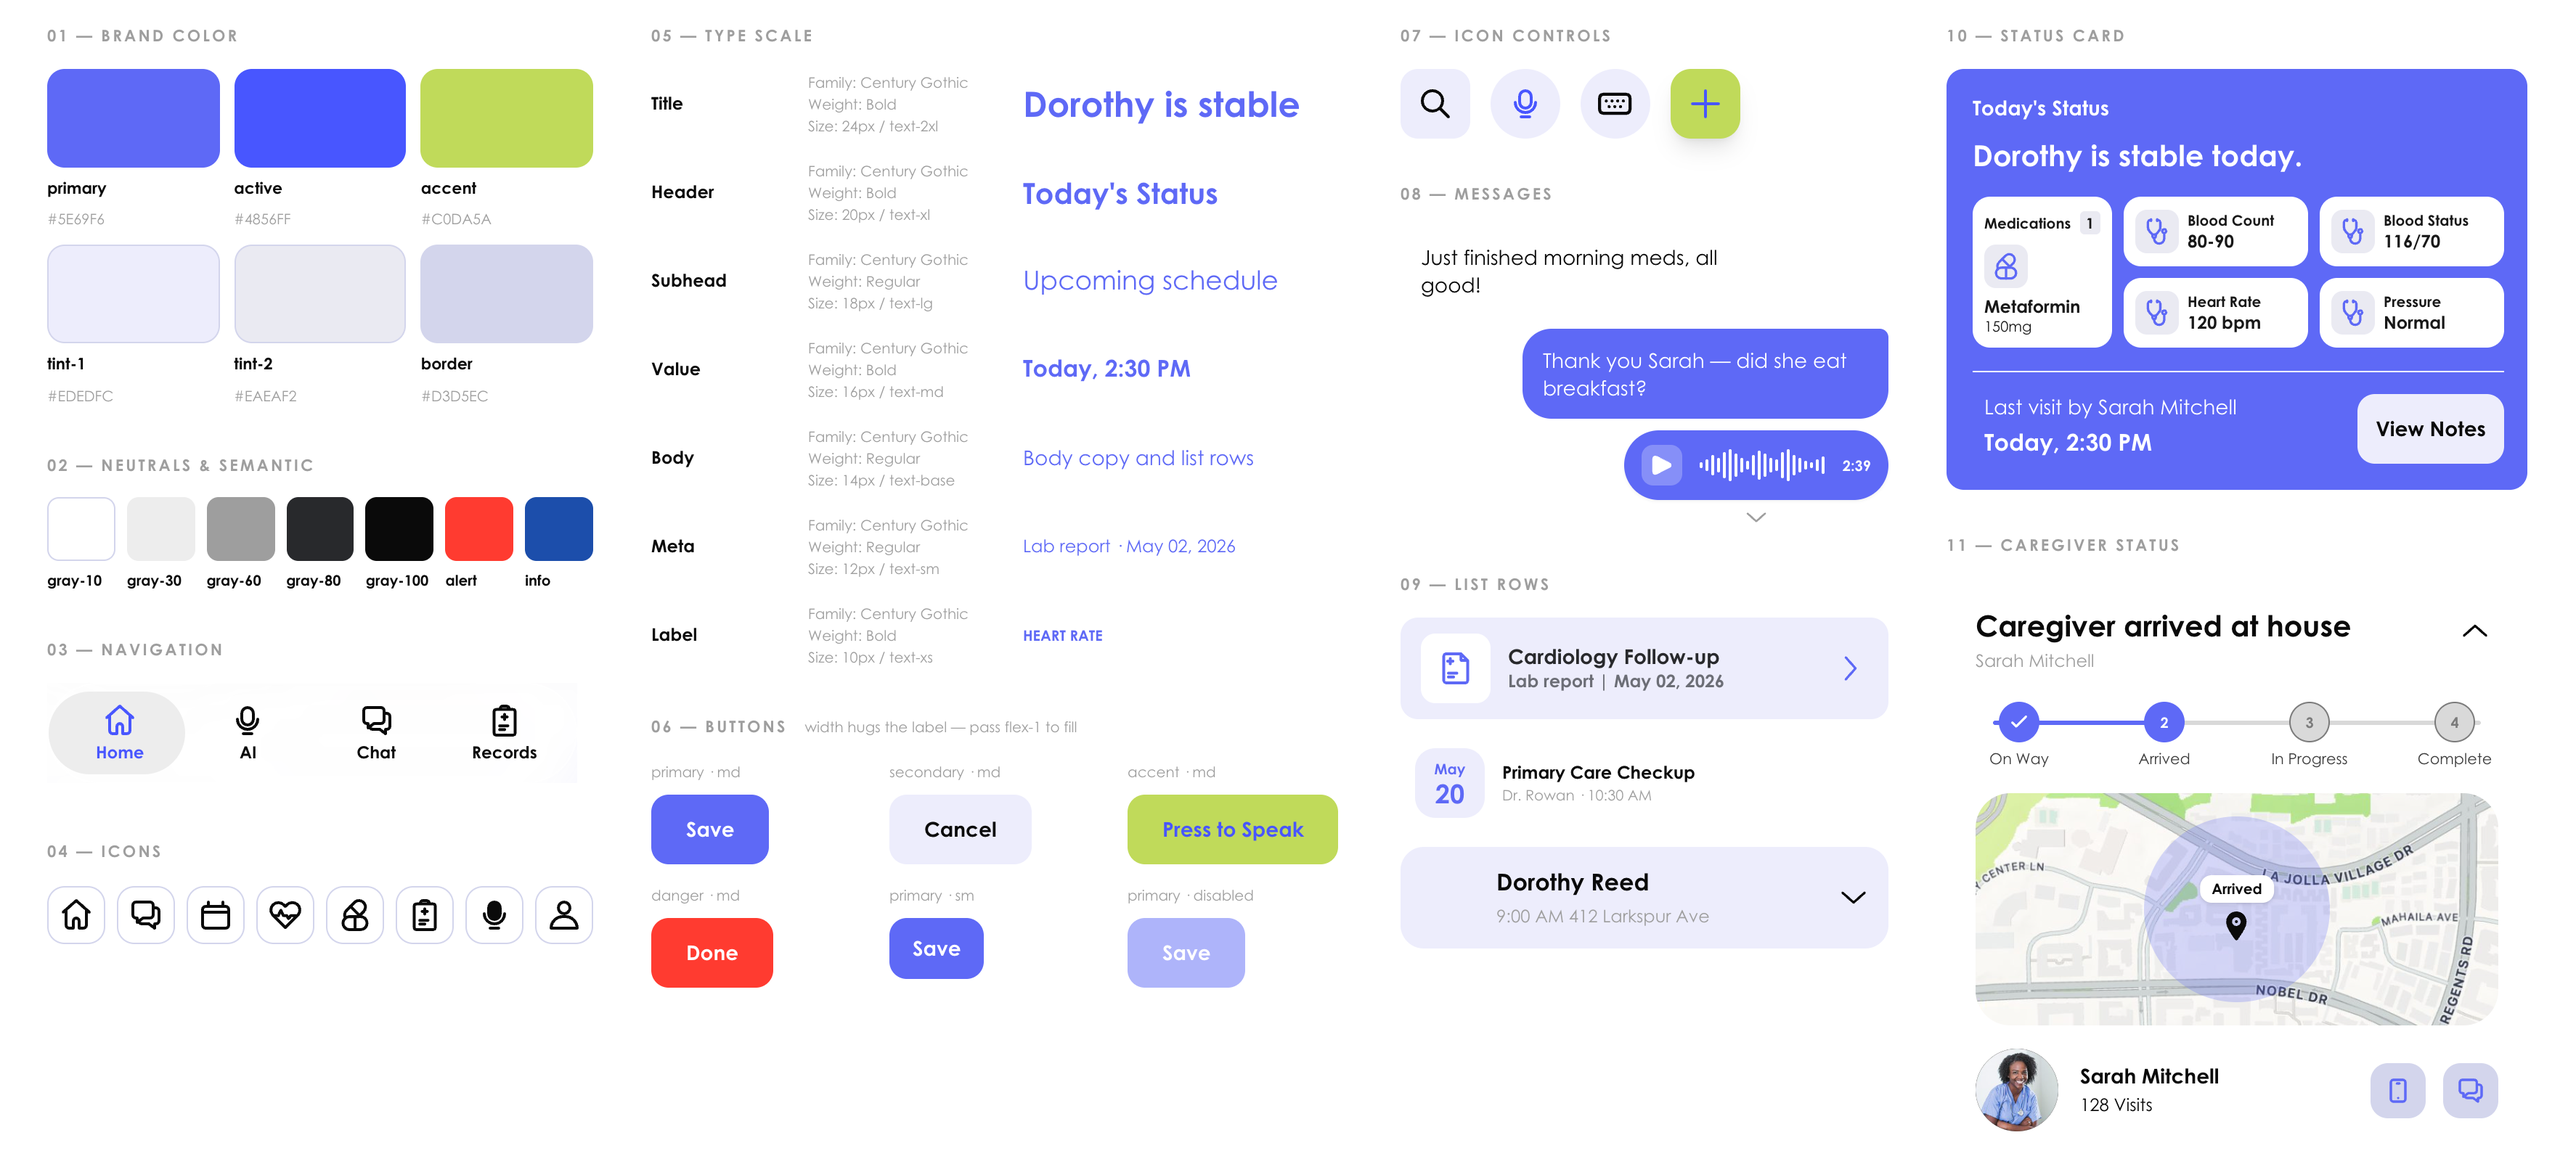
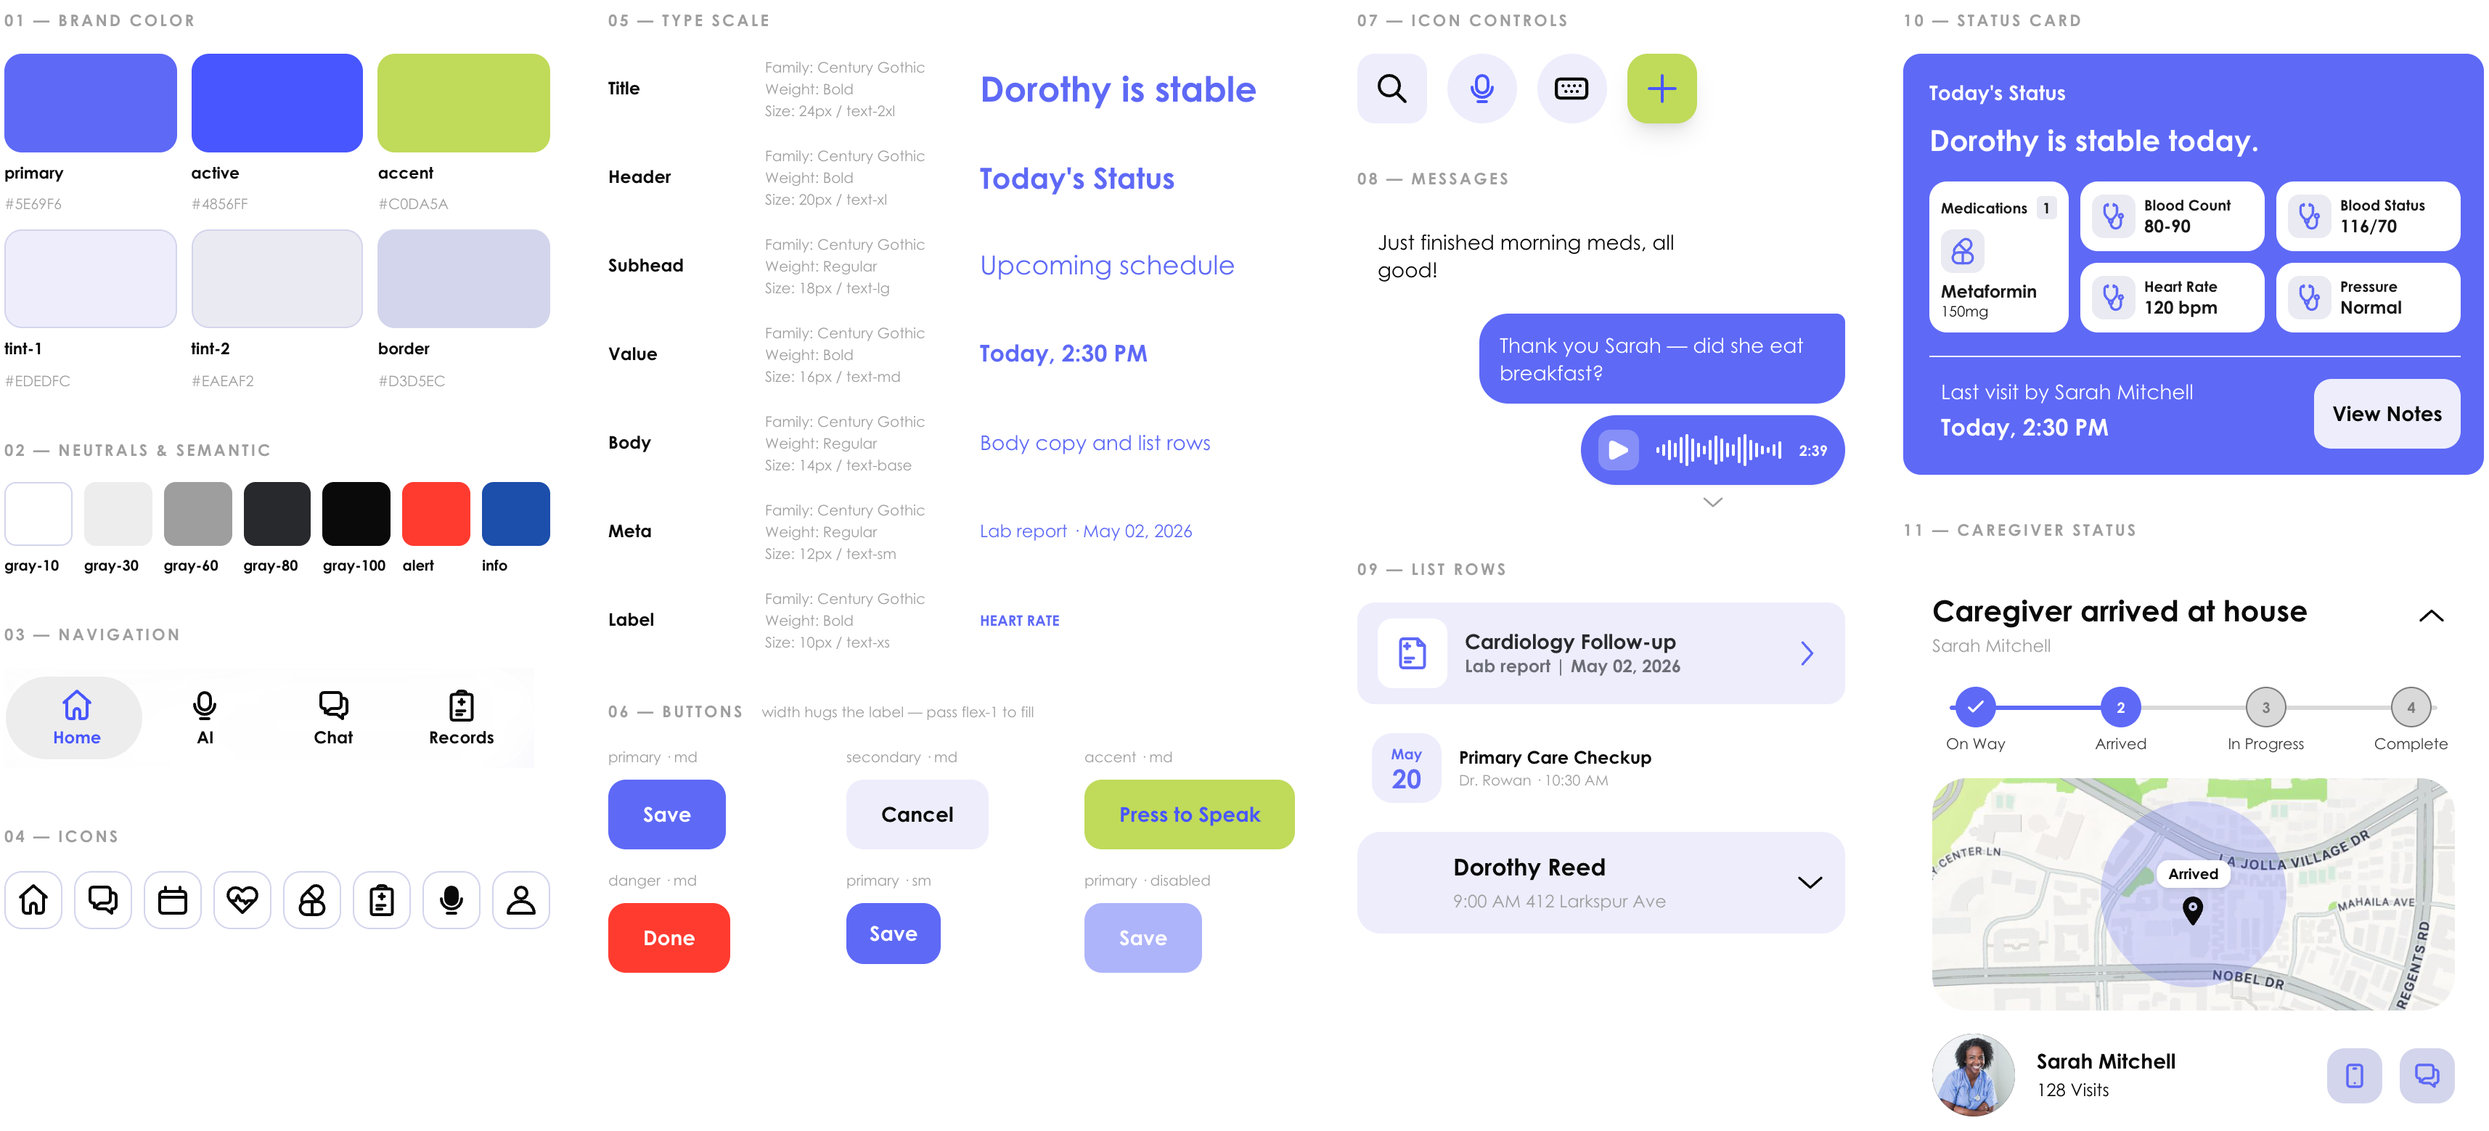
fix: match Alio design system image box to its cropped proportions
Re-cropped sticker sheet export (3429x1558, was 3548x1615) — update
the width/height/aspect-ratio to match so it isn't letterboxed.

diff --git a/components/case-study/AlioCaseStudyPage.tsx b/components/case-study/AlioCaseStudyPage.tsx
@@ -228,9 +228,9 @@ export default function AlioCaseStudyPage({
         <img
           src={caseStudy.designSystemImage}
           alt="Alio design system — color palette, type scale, radii, and component sticker sheet"
-          width={3548}
-          height={1615}
-          className="mb-11 aspect-[3548/1615] w-full rounded-xl object-contain"
+          width={3429}
+          height={1558}
+          className="mb-11 aspect-[3429/1558] w-full rounded-xl object-contain"
         />
       </CaseStudySection>
 
